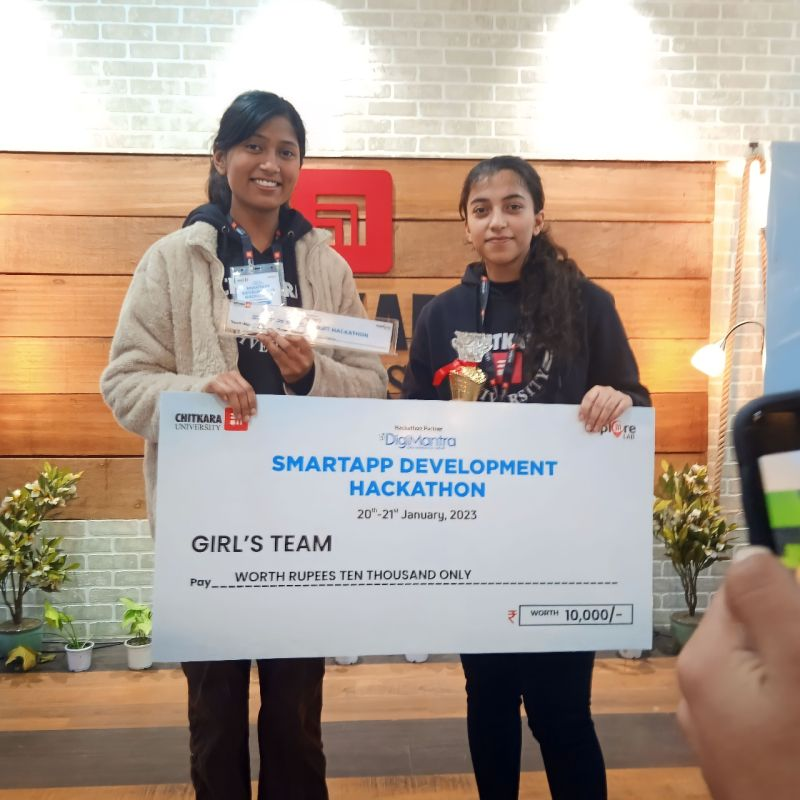
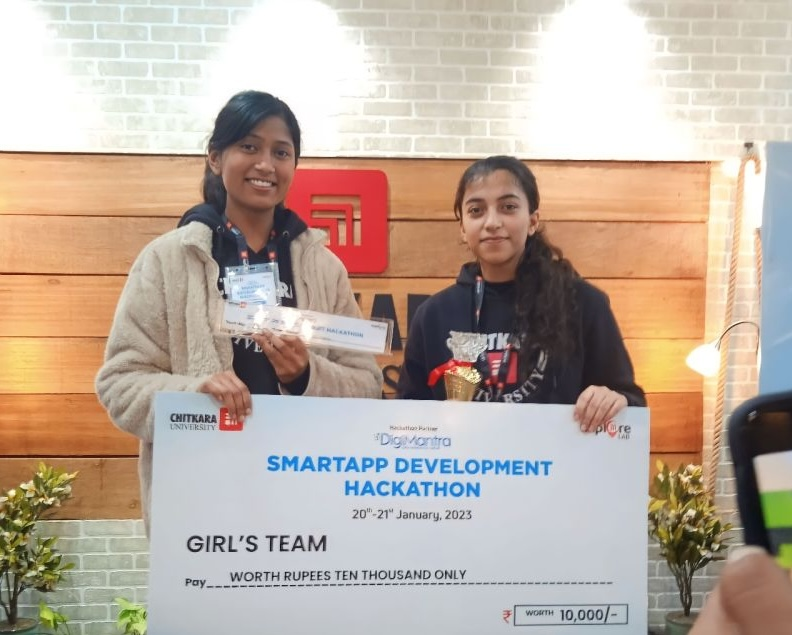
work and awards

diff --git a/components/sections/Awards.tsx b/components/sections/Awards.tsx
@@ -27,7 +27,7 @@ const achievements: Achievement[] = [
   },
   {
     title: "Winner — Smart App Development Hackathon",
-    organizer: "Chitkara University × DigiMantra",
+    organizer: "DigiMantra",
     prize: "₹10,000 Cash Prize",
     year: "2023",
     description:
